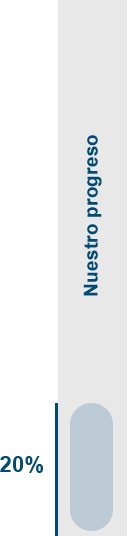
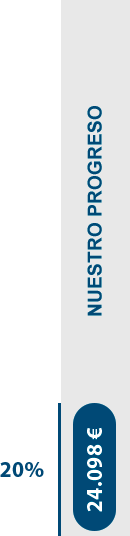
mobile flag and menu animate

diff --git a/index.html b/index.html
@@ -15,6 +15,7 @@
   <link href="css/portada.css" rel="stylesheet">
   <link href="css/mobile.css" rel="stylesheet">
   <link href="./fontawesome-free-5.10.1-web/css/all.css" rel="stylesheet">
+  <link rel="stylesheet" href="https://www.w3schools.com/w3css/4/w3.css">
 </head>
 <body>
   <!-- PORTADA -->
@@ -33,6 +34,7 @@
     </div>
   </div>
   <!-- \ PORTADA -->
+
   <div class="container_index container-fluid d-none">
     <div class="row h-100">
       <!-- NAV LEFT -->
@@ -8215,9 +8217,9 @@
       </div>
       <!-- \ MAIN CONTENT -->
 
-      <!-- PERCENTAGE IMAGE -->
+      <!-- PERCENTAGE IMAGE AND FOOTER -->
       <div class="col-1 h-100 fixed-top" id="right-sidebar">
-          <img src="img/barra.png" class="thermometer_img" alt="porcentaje donaciones">
+          <img src="img/progreso.png" class="thermometer_img" alt="porcentaje donaciones">
           <!-- FOOTER  -->
           <footer class="footer">
               <ul class="footer_text">
@@ -8233,22 +8235,23 @@
               </ul>
           </footer>
       </div>
+      <!-- \ PERCENTAGE IMAGE AND FOOTER -->
     </div>
     <!-- FINAL MAIN CONTENT -->
   </div>
 
   <!-- MOBILE CONTENT -->  
-  <div class="container_mobile d-none d-md-none">
+  <div class="container_mobile d-none d-lg-none">
     <div class="wrapper">
       <!-- NAVBAR LEFT -->
       <div id="mySidenav" class="sidenav rounded">
         <i class="fas fa-times btn_closeNav"></i>
         <div>
-          <a href="#">La casa</a>
-          <a href="#">Usuarios</a>
-          <a href="#">Voluntarios</a>
-          <a href="#">Objetivos</a>
-          <a href="#">El Arca</a>
+          <a href="#first_zone">La casa</a>
+          <a href="#second_zone">Usuarios</a>
+          <a href="#third_zone">Voluntarios</a>
+          <a href="#fourth_zone">Objetivos</a>
+          <a href="#fifth_zone">El Arca</a>
           <hr>
           <p class="textNav">Proyecto de hogar de personas con discapacidad intelectual.</p>
           <hr>
@@ -8256,6 +8259,7 @@
       </div>
       <!-- \ NAVBAR LEFT -->
       <!-- CONTENT -->
+      <div class="w3-overlay w3-animate-opacity" style="cursor:pointer" id="myOverlay"></div>
       <div class="content"> 
         <!-- NAVTOP -->      
         <nav class="navbar navbarTop">        
@@ -8270,10 +8274,10 @@
           RECAUDACIÓN
         </div>
         <div class="wrapper_img_recaudacion d-none">
-          <img src="./img/barra.png" alt="">
+          <img src="./img/progreso.png" alt="">
         </div>
         <!-- \ RECAUDACIÓN -->
-        <div class="wrapper_first_zone p-3">
+        <div id="first_zone" class="wrapper_first_zone p-3">
           <img src="./img/mobile_img/h1_mbl.png" class="img_first_zone" alt="">
           <div class="wrapper_text_first_zone shadow p-3 mb-2 bg-white">
               <span> <img src="./img/mobile_img/1.png" alt="">En ocasiones las personas adultas con discapacidad intelectual no tienen una opción de vivienda que facilite su autonomía e integración social. La Casa nace para dar respuesta a esta situación.</span>
@@ -8288,7 +8292,7 @@
               <span> <img src="./img/mobile_img/4.png" alt="">La Casa es un espacio de transformación: para los habitantes de la misma y para los que se acercan a ella. Las personas con discapacidad son maestros de vida, y su integración activa en la comunidad beneficia a todas las partes. </span>
           </div>         
         </div>
-        <div class="wrapper_second_zone position-relative">
+        <div id="second_zone" class="wrapper_second_zone position-relative">
           <img src="./img/Objetivos.png" class="img_zone" alt="">      
           <div class="wrapper_text_zone shadow p-3 bg-white rounded">
               <span>Estamos recaudando los fondos de dos maneras distintas. Te contamos las diferencias:
@@ -8298,7 +8302,7 @@
               </span>
           </div>        
         </div>
-        <div class="wrapper_third_zone position-relative">
+        <div id="third_zone" class="wrapper_third_zone position-relative">
           <img src="./img/Voluntarios.png" class="img_zone" alt="">      
           <div class="wrapper_text_zone shadow p-3 bg-white rounded">
               <span>Estamos recaudando los fondos de dos maneras distintas. Te contamos las diferencias:
@@ -8308,7 +8312,7 @@
               </span>
           </div>        
         </div>
-        <div class="wrapper_fourth_zone position-relative">
+        <div id="fourth_zone" class="wrapper_fourth_zone position-relative">
           <img src="./img/Principios.png" class="img_zone" alt="">      
           <div class="wrapper_text_zone shadow p-3 bg-white rounded">
               <span>Estamos recaudando los fondos de dos maneras distintas. Te contamos las diferencias:    
@@ -8318,7 +8322,7 @@
               </span>
           </div>        
         </div>
-        <div class="wrapper_fifth_zone position-relative">
+        <div id="fifth_zone" class="wrapper_fifth_zone position-relative">
             <img src="./img/foto.png" class="img_zone" alt="">      
             <div class="wrapper_text_zone row">
                 <p>
@@ -8332,6 +8336,35 @@
       </div>
       <!-- \ CONTENT -->
     </div>
+    <footer class="footer_mbl">
+        <div class="row">
+          <div class="col-12 d-sm-none">
+            <ul class="footer_mblxs_text">
+              <li class="li_mblxs col-12"><a href="">El Arca</a></li>
+              <li class="li_mblxs col-12"><a href="">Faqs</a></li>
+              <li class="li_mblxs col-12"><a href="">Aviso legal</a></li>
+              <li class="li_mblxs col-12"><a href="" class="mr-3">Política de privacidad</a></li>
+              <li class="li_mblxs col-12"><a href="">
+                <img class="icon_footer" src="img/twitter_icon.png" alt="icono de twitter">
+                <img class="icon_footer" src="img/fb_icon.png" alt="icono de facebook">
+              </a></li>
+            </ul>
+          </div>
+          <div class="col-6 col-sm-12 d-none d-sm-block">
+            <ul class="footer_mbl_text">
+              <li><a href="">El Arca</a></li>
+              <li class="separator_footer">|</li>
+              <li><a href="">Faqs</a></li>
+              <li class="separator_footer">|</li>
+              <li><a href="">Aviso legal</a></li>
+              <li class="separator_footer">|</li>
+              <li><a href="" class="mr-3">Política de privacidad</a></li>
+              <li><a href=""><img class="icon_footer" src="img/twitter_icon.png" alt="icono de twitter"></a></li>
+              <li><a href=""><img class="icon_footer" src="img/fb_icon.png" alt="icono de facebook"></a></li>
+            </ul>
+          </div>
+        </div>
+    </footer>
   </div>
   <!-- \ MOBILE CONTENT -->
   <!-- MODAL VIDEO -->

diff --git a/css/mobile.css b/css/mobile.css
@@ -3,8 +3,12 @@
   }
 /* -----NAVBAR TOP------- */
 .navbarTop {
-    background-color: #004a74;
-    box-shadow: 0px -5px 25px black;
+  background-color: #004a74;
+  box-shadow: 0px -5px 25px black;
+  display: flex;
+  position: fixed;
+  width: 100%;
+  z-index: 1;
 }
 
 .btn_colabora_mbl {
@@ -58,7 +62,7 @@
     height: 100%;
     width: 0;
     position: fixed;
-    z-index: 1;
+    z-index: 3;
     top: 0;
     left: 0;
     background-color: #e2e6e9;
@@ -108,12 +112,12 @@
   }
 
   .wrapper_text_first_zone img{
-    width: 6%;
+    width: 25px;
     margin-right: 5px;
     margin-bottom: 5px;
   }
 
-  /* ------SECOND ZONE------ */
+  /* ------OTHERS ZONE------ */
   .wrapper_second_zone, .wrapper_third_zone, .wrapper_fourth_zone {
     margin-top: 10px;
     background-color: #000000;
@@ -144,4 +148,51 @@
   @media screen and (max-height: 450px) {
     .sidenav {padding-top: 15px;}
     .sidenav a {font-size: 18px;}
+  }
+
+  /* ----------FOOTER----------- */
+  .footer_mbl{
+    left: 0;
+    bottom: 0;
+    width: 100%;
+    background-color: #0C4C76;
+    color: white;
+    text-align: center;
+  }
+  
+  .footer_mbl_text {
+    display: inline-flex;
+    list-style: none;
+    margin: 5px 0px;
+    padding-right: 0px;
+  }
+  
+  .footer_mbl_text a {
+    text-decoration: none;
+    color: white;
+  }
+  
+  .separator_footer{
+    margin: 0px 12px;
+  }
+  
+  .icon_footer {
+    width: 20px;
+    margin: 0px 2px;
+  }
+
+  /* XS */
+  .footer_mblxs_text {
+    padding: 0px;
+    margin: 10px 0px;
+    list-style: none;
+  }
+  
+  .footer_mblxs_text a {    
+    text-decoration: none;
+    color: white;
+  }
+
+  .li_mblxs {
+    margin: 5px 0px;
   }

diff --git a/js/recaudacion_flag.js b/js/recaudacion_flag.js
@@ -1,11 +1,13 @@
 $(document).ready(function(){
     $(".wrapper_flag_recaudacion").click(function(){
-        $(".wrapper_img_recaudacion").removeClass("d-none");
-        $(".wrapper_flag_recaudacion").addClass("d-none");
+        $(".wrapper_flag_recaudacion").addClass("animated fadeOutRight");
+        $(".wrapper_img_recaudacion").removeClass("d-none fadeOutRight");
+        $(".wrapper_img_recaudacion").addClass("animated fadeInRight");
     });
 
     $(".wrapper_img_recaudacion").click(function(){
-        $(".wrapper_flag_recaudacion").removeClass("d-none");
-        $(".wrapper_img_recaudacion").addClass("d-none");
+        $(".wrapper_flag_recaudacion").removeClass("fadeOutRight");
+        $(".wrapper_img_recaudacion").addClass("fadeOutRight");
+        $(".wrapper_flag_recaudacion").addClass("fadeInRight");
     });
   });

diff --git a/js/toggle_menu.js b/js/toggle_menu.js
@@ -1,9 +1,27 @@
 $(document).ready(function(){
   $(".btn_openNav").click(function(){
-    $(".sidenav").css("width", "210px");
+    openNav();
   });
   
   $(".btn_closeNav").click(function(){
-    $(".sidenav").css("width", "0px");
+    closeNav();
   });
+
+  $("#myOverlay").click(function(){
+    closeNav();
+  });
+
+  function openNav() {
+    $(".sidenav").removeClass("fadeOutLeft");
+    $(".sidenav").css("width", "210px");
+    $(".sidenav").addClass("animated fadeInLeft");
+    $("#myOverlay").css("display", "block");
+  }
+  
+  function closeNav() {
+    $(".sidenav").removeClass("fadeInLeft");
+    $(".sidenav").addClass("animated fadeOutLeft");
+    $("#myOverlay").css("display", "none");
+  }
+
 });

diff --git a/css/index.css b/css/index.css
@@ -67,7 +67,7 @@
 }
 
 .btn_colabora {
-  background-color: #8B0058;
+  background-color: #004a74;
   color: white;
   border: 0px;
   border-radius: 15px;
